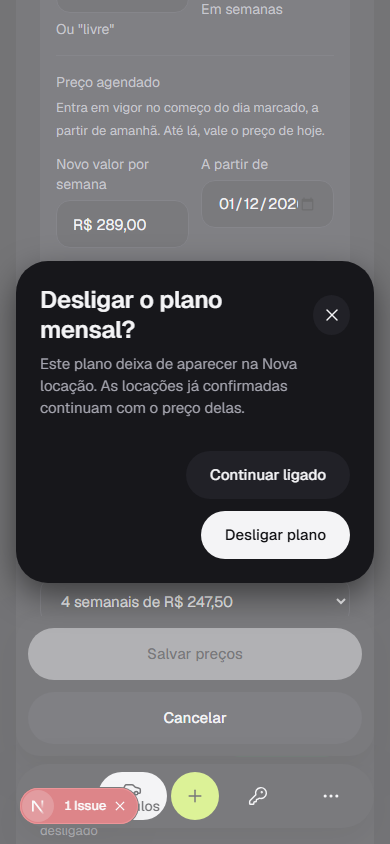
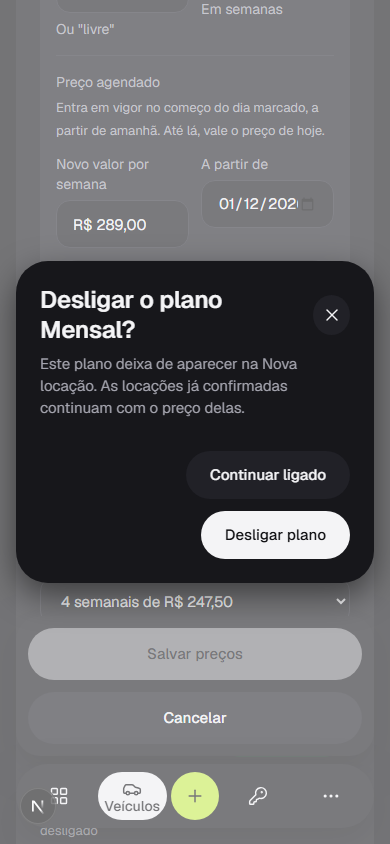
feat(veiculos): revenda estimada e textos aprovados de ligar e desligar na tela de preços [VEI-12] [VEI-13] [T-496]
Campo "Revenda estimada em 24 meses" no bloco Custo e venda; confirmações de
ligar e desligar plano e locação com compra com os textos da VEI-12; capturas
refeitas sem o selo de erro do Next.

Changed region(s): [[0.0308, 0.9242, 0.3692, 0.9858], [0.0923, 0.3697, 0.3385, 0.4005]]

diff --git a/frontend/src/components/precos-veiculo/PrecosDoVeiculo.tsx b/frontend/src/components/precos-veiculo/PrecosDoVeiculo.tsx
@@ -10,8 +10,8 @@ import { useAtrasado, useCelular } from "@/lib/atrasado";
 import { mensagemDoErro } from "@/lib/erros";
 import { dinheiro, placa as placaComHifen } from "@/lib/formatos";
 import {
-  TEXTO_DESLIGAR,
-  TEXTO_DESLIGAR_O_ULTIMO,
+
+  textosDaConfirmacao,
   centavosDoCampo,
   chaveDoPlano,
   compraParaRascunho,
@@ -52,7 +52,8 @@ function Quadro({ rotulo, children, apoio }: { rotulo: string; children: ReactNo
 
 const NUMERO_GRANDE = "text-[22px] font-semibold leading-7 tracking-[-0.01em]";
 
-type Confirmacao = { tipo: "plano" | "compra"; chave: string; nome: string; ultimo: boolean };
+type Confirmacao = { tipo: "plano" | "compra"; chave: string; nome: string; ligar: boolean; ultimo: boolean };
+const textos = (c: Confirmacao) => textosDaConfirmacao({ alvo: c.tipo, nome: c.nome, ligar: c.ligar, ultimo: c.ultimo });
 type Juros = { mensagem: string; aoConfirmar: () => void };
 
 function Tela({ id, dados }: { id: number; dados: Precos }) {
@@ -183,10 +184,9 @@ function Tela({ id, dados }: { id: number; dados: Precos }) {
     await gravarLiga("compra", m, (resposta) => setRascunho((r) => ({ ...r, compra: compraParaRascunho(resposta.plano_compra) })), () => void mudarLigadoDaCompra(ligado, true));
   }
 
-  function pedirParaLigar(chave: string, ligado: boolean) {
-    if (ligado) return void mudarLigadoDoPlano(chave, true);
+  function pedirParaLigar(chave: string, ligar: boolean) {
     const p = rascunho.planos.find((x) => x.chave === chave);
-    setConfirmando({ tipo: "plano", chave, nome: p?.rotulo.toLowerCase() ?? "", ultimo: ehOUltimoLigado(dados, chave) });
+    setConfirmando({ tipo: "plano", chave, nome: p?.rotulo ?? "", ligar, ultimo: !ligar && ehOUltimoLigado(dados, chave) });
   }
 
   async function mudarAgendado(chave: string, agendado: { valor: string; data: string } | null) {
@@ -311,7 +311,7 @@ function Tela({ id, dados }: { id: number; dados: Precos }) {
           ) : undefined
         }
       >
-        <div className="mt-4 grid gap-3 md:grid-cols-4">
+        <div className="mt-4 grid gap-3 [grid-template-columns:repeat(auto-fit,minmax(220px,1fr))]">
           {exibido.pago_na_moto && (
             <Quadro
               rotulo="Pago na moto"
@@ -351,6 +351,27 @@ function Tela({ id, dados }: { id: number; dados: Precos }) {
             <span className={`text-[13px] ${venda ? "text-critical-ink" : "text-ink-muted"}`}>{venda ?? (exibido.fipe_centavos != null ? `FIPE ${dinheiro(exibido.fipe_centavos)}` : "")}</span>
           </label>
           {exibido.custos && (
+            <label className={`flex min-w-0 flex-col gap-[2px] rounded-md bg-surface-sunken px-4 py-[14px] ${erros["custos.revenda_estimada_centavos"] ? "wl-field--error" : ""}`}>
+              <span className="text-[13px] text-ink-muted">Revenda estimada em 24 meses</span>
+              <input
+                className="wl-input w-full bg-surface text-[18px] font-semibold"
+                inputMode="decimal"
+                placeholder="R$ 0,00"
+                value={rascunho.revenda}
+                disabled={somenteLeitura}
+                aria-invalid={erros["custos.revenda_estimada_centavos"] ? true : undefined}
+                onChange={(e) => {
+                  setRascunho((r) => ({ ...r, revenda: e.target.value }));
+                  setAviso(null);
+                  setErrosSalvar((x) => Object.fromEntries(Object.entries(x).filter(([k]) => k !== "custos.revenda_estimada_centavos")));
+                }}
+              />
+              <span className={`text-[13px] ${erros["custos.revenda_estimada_centavos"] ? "text-critical-ink" : "text-ink-muted"}`}>
+                {erros["custos.revenda_estimada_centavos"] ?? "Quanto você espera vender a moto daqui a 24 meses. Vazio: sem desvalorização no custo."}
+              </span>
+            </label>
+          )}
+          {exibido.custos && (
             <Quadro rotulo="Custos por mês" apoio="manutenção, seguro, IPVA, rastreador">
               <b className={NUMERO_GRANDE}>{dinheiro(exibido.custos.custo_mes_centavos)}</b>
             </Quadro>
@@ -384,7 +405,7 @@ function Tela({ id, dados }: { id: number; dados: Precos }) {
         somenteLeitura={somenteLeitura}
         ocupado={ocupado === "compra"}
         aoEditar={editarCompra}
-        aoLigar={(ligado) => (ligado ? void mudarLigadoDaCompra(true) : setConfirmando({ tipo: "compra", chave: "compra", nome: "locação com compra", ultimo: ehOUltimoLigado(dados, "compra") }))}
+        aoLigar={(ligar) => setConfirmando({ tipo: "compra", chave: "compra", nome: "", ligar, ultimo: !ligar && ehOUltimoLigado(dados, "compra") })}
       />
 
       <Panel titulo="Regras desta moto">
@@ -419,12 +440,12 @@ function Tela({ id, dados }: { id: number; dados: Precos }) {
         aberto={confirmando !== null}
         aoFechar={() => setConfirmando(null)}
         tamanho="pequeno"
-        titulo={confirmando?.ultimo ? "Desligar o último plano?" : confirmando?.tipo === "compra" ? "Desligar a locação com compra?" : `Desligar o plano ${confirmando?.nome ?? ""}?`}
-        descricao={confirmando?.ultimo ? TEXTO_DESLIGAR_O_ULTIMO : TEXTO_DESLIGAR}
+        titulo={confirmando ? textos(confirmando).titulo : ""}
+        descricao={confirmando ? textos(confirmando).texto : undefined}
         acoes={
           <>
             <Button variante="quieto" onClick={() => setConfirmando(null)}>
-              Continuar ligado
+              {confirmando ? textos(confirmando).cancelar : ""}
             </Button>
             <Button
               variante="solido"
@@ -432,11 +453,11 @@ function Tela({ id, dados }: { id: number; dados: Precos }) {
                 const c = confirmando;
                 setConfirmando(null);
                 if (!c) return;
-                if (c.tipo === "compra") void mudarLigadoDaCompra(false);
-                else void mudarLigadoDoPlano(c.chave, false);
+                if (c.tipo === "compra") void mudarLigadoDaCompra(c.ligar);
+                else void mudarLigadoDoPlano(c.chave, c.ligar);
               }}
             >
-              Desligar plano
+              {confirmando ? textos(confirmando).confirmar : ""}
             </Button>
           </>
         }

diff --git a/frontend/src/lib/precos-veiculo.ts b/frontend/src/lib/precos-veiculo.ts
@@ -176,7 +176,7 @@ export type CompraRascunho = {
 
 export type RegrasRascunho = { kmExcedente: string; diaAtraso: string; descontoPct: string; prazoCaucao: string; multaMinima: string };
 
-export type Rascunho = { valorVenda: string; planos: PlanoRascunho[]; regras: RegrasRascunho; compra: CompraRascunho };
+export type Rascunho = { valorVenda: string; revenda: string; planos: PlanoRascunho[]; regras: RegrasRascunho; compra: CompraRascunho };
 
 const PERIODO_DO_TIPO: Record<TipoDePlano, PeriodoDoPlano> = { diaria: "dia", semanal: "semana", mensal: "mes", entregador: "semana", outro: "dia" };
 
@@ -219,6 +219,7 @@ export function compraParaRascunho(c: PrecosDoVeiculo["plano_compra"]): CompraRa
 export function rascunhoDoDocumento(d: PrecosDoVeiculo): Rascunho {
   return {
     valorVenda: textoDoDinheiro(d.valor_venda_centavos),
+    revenda: textoDoDinheiro(d.custos?.revenda_estimada_centavos),
     planos: d.planos.map(planoParaRascunho),
     regras: {
       kmExcedente: `${dinheiro(d.regras.km_excedente_centavos)} por km`,
@@ -340,6 +341,10 @@ export function corpoDaDiferenca(r: Rascunho, base: Rascunho, opcoes: { confirma
     corpo.valor_venda_centavos = dinheiroOu(a, "valor_venda_centavos", r.valorVenda, null);
     mudou = true;
   }
+  if (r.revenda !== base.revenda) {
+    corpo.custos = { revenda_estimada_centavos: dinheiroOu(a, "custos.revenda_estimada_centavos", r.revenda, null) };
+    mudou = true;
+  }
   const planos: PlanoEntrada[] = [];
   for (const p of r.planos) {
     const antes = base.planos.find((b) => b.chave === p.chave);
@@ -403,7 +408,7 @@ export function custosParaRascunho(c: CustosDoVeiculo | undefined): CustosRascun
   };
 }
 
-/** A revenda estimada não tem campo na tela de referência: vai o valor que já estava. */
+/** O modal não edita a revenda estimada (ela fica em "Custo e venda"): vai o valor que já estava. */
 export function custosParaCorpo(r: CustosRascunho, atual: CustosDoVeiculo | undefined): { custos: CustosEntrada; erros: ErrosDeCampo } {
   const a: Acumulador = { erros: {} };
   const custos: CustosEntrada = {
@@ -428,3 +433,20 @@ export function ehOUltimoLigado(d: PrecosDoVeiculo, planoChave: string | "compra
 
 /** "56.26" da API em "56,3%": uma casa, só para a exibição. */
 export const textoDaMargem = (pct: string): string => `${Number(pct).toLocaleString("pt-BR", { minimumFractionDigits: 1, maximumFractionDigits: 1 })}%`;
+
+export type TextosDaConfirmacao = { titulo: string; texto: string; confirmar: string; cancelar: string };
+
+/** Confirmações de ligar e desligar (VEI-12, VEI-15, VEI-16), com os textos aprovados pelo Produto em 18 nov 2026. `nome` é o do plano ("Semanal"). */
+export function textosDaConfirmacao(c: { alvo: "plano" | "compra"; nome: string; ligar: boolean; ultimo: boolean }): TextosDaConfirmacao {
+  if (c.alvo === "plano") {
+    if (c.ligar) return { titulo: `Ligar o plano ${c.nome}?`, texto: "Este plano passa a aparecer na Nova locação, com o valor, a caução e a franquia definidos para esta moto.", confirmar: "Ligar plano", cancelar: "Continuar desligado" };
+    return { titulo: c.ultimo ? "Desligar o último plano?" : `Desligar o plano ${c.nome}?`, texto: c.ultimo ? TEXTO_DESLIGAR_O_ULTIMO : TEXTO_DESLIGAR, confirmar: "Desligar plano", cancelar: "Continuar ligado" };
+  }
+  if (c.ligar) return { titulo: "Ligar a locação com compra?", texto: "A locação com compra passa a aparecer na Nova locação, com o valor de venda, as parcelas e os juros definidos para esta moto.", confirmar: "Ligar locação com compra", cancelar: "Continuar desligada" };
+  return {
+    titulo: c.ultimo ? "Desligar o último plano?" : "Desligar a locação com compra?",
+    texto: c.ultimo ? TEXTO_DESLIGAR_O_ULTIMO : "A locação com compra deixa de aparecer na Nova locação. As locações já confirmadas continuam com o preço e as parcelas delas.",
+    confirmar: "Desligar locação com compra",
+    cancelar: "Continuar ligada",
+  };
+}

diff --git a/frontend/src/components/precos-veiculo/PrecosNaFicha.tsx b/frontend/src/components/precos-veiculo/PrecosNaFicha.tsx
@@ -8,8 +8,7 @@ import { ErroApi, veiculos, type PlanoCompraEntrada, type PlanoDoVeiculo, type P
 import { mensagemDoErro } from "@/lib/erros";
 import { dinheiro, placa } from "@/lib/formatos";
 import {
-  TEXTO_DESLIGAR,
-  TEXTO_DESLIGAR_O_ULTIMO,
+  textosDaConfirmacao,
   chaveDoPlano,
   ehOUltimoLigado,
   porPeriodo,
@@ -251,7 +250,7 @@ export function PrecosNaFicha({ id }: { id: number }) {
 
   const ligados = d.planos.filter((p) => p.ligado);
   const desligados = d.planos.filter((p) => !p.ligado);
-  const nomeDe = (q: "compra" | PlanoDoVeiculo) => (q === "compra" ? "a locação com compra" : `o plano ${q.rotulo.toLowerCase()}`);
+  const textos = (c: Confirmar) => textosDaConfirmacao({ alvo: c.quem === "compra" ? "compra" : "plano", nome: c.quem === "compra" ? "" : c.quem.rotulo, ligar: c.ligar, ultimo: c.ultimo });
   const custoMes = d.custos?.custo_mes_centavos;
 
   return (
@@ -298,12 +297,12 @@ export function PrecosNaFicha({ id }: { id: number }) {
         aberto={confirmar !== null}
         aoFechar={() => setConfirmar(null)}
         tamanho="pequeno"
-        titulo={confirmar ? (confirmar.ligar ? `Ligar ${nomeDe(confirmar.quem)}?` : confirmar.ultimo ? "Desligar o último plano?" : `Desligar ${nomeDe(confirmar.quem)}?`) : ""}
-        descricao={confirmar ? (confirmar.ligar ? "Este plano passa a aparecer na Nova locação, com o valor, a caução e a franquia definidos para esta moto." : confirmar.ultimo ? TEXTO_DESLIGAR_O_ULTIMO : TEXTO_DESLIGAR) : undefined}
+        titulo={confirmar ? textos(confirmar).titulo : ""}
+        descricao={confirmar ? textos(confirmar).texto : undefined}
         acoes={
           <>
             <Button variante="quieto" onClick={() => setConfirmar(null)}>
-              {confirmar?.ligar ? "Cancelar" : "Continuar ligado"}
+              {confirmar ? textos(confirmar).cancelar : ""}
             </Button>
             <Button
               variante="solido"
@@ -313,7 +312,7 @@ export function PrecosNaFicha({ id }: { id: number }) {
                 if (c) void executar(c);
               }}
             >
-              {confirmar?.ligar ? "Ligar plano" : "Desligar plano"}
+              {confirmar ? textos(confirmar).confirmar : ""}
             </Button>
           </>
         }

diff --git a/frontend/src/lib/precos-veiculo.test.ts b/frontend/src/lib/precos-veiculo.test.ts
@@ -16,6 +16,7 @@ import {
   textoDasFormas,
   textoDoAgendado,
   textoDoPagamento,
+  textosDaConfirmacao,
 } from "./precos-veiculo";
 
 describe("leitura do que se digita", () => {
@@ -148,5 +149,21 @@ describe("textos e o último plano", () => {
     expect(textoDoPagamento("mes_quatro_semanais", { parcelas: 4, parcela_centavos: 24750, ultima_parcela_centavos: 24750 })).toBe("4 semanais de R$ 247,50");
     expect(textoDoPagamento("mes_uma_parcela")).toBe("1 parcela no mês");
     expect(textoDoAgendado({ valor_centavos: 28900, a_partir_de: "2026-12-01" })).toBe("R$ 289,00 a partir de 01 dez");
+  });
+});
+
+describe("revenda estimada e textos de confirmação", () => {
+  it("vei_13_revenda_estimada_vai_em_custos_so_quando_muda", () => {
+    const base = rascunhoDoDocumento(PRECOS_POP);
+    expect(base.revenda).toBe("R$ 9.000,00");
+    expect(corpoDaDiferenca(base, base).mudou).toBe(false);
+    expect(corpoDaDiferenca({ ...base, revenda: "R$ 8.900,00" }, base).corpo.custos).toEqual({ revenda_estimada_centavos: 890000 });
+    expect(corpoDaDiferenca({ ...base, revenda: "" }, base).corpo.custos).toEqual({ revenda_estimada_centavos: null });
+  });
+  it("vei_12_textos_aprovados_de_ligar_e_desligar", () => {
+    expect(textosDaConfirmacao({ alvo: "plano", nome: "Semanal", ligar: true, ultimo: false })).toMatchObject({ titulo: "Ligar o plano Semanal?", confirmar: "Ligar plano", cancelar: "Continuar desligado" });
+    expect(textosDaConfirmacao({ alvo: "compra", nome: "", ligar: false, ultimo: false })).toMatchObject({ titulo: "Desligar a locação com compra?", confirmar: "Desligar locação com compra", cancelar: "Continuar ligada" });
+    expect(textosDaConfirmacao({ alvo: "compra", nome: "", ligar: true, ultimo: false }).confirmar).toBe("Ligar locação com compra");
+    expect(textosDaConfirmacao({ alvo: "plano", nome: "Mensal", ligar: false, ultimo: true }).titulo).toBe("Desligar o último plano?");
   });
 });

diff --git a/frontend/src/components/precos-veiculo/PrecosDoVeiculo.test.tsx b/frontend/src/components/precos-veiculo/PrecosDoVeiculo.test.tsx
@@ -55,6 +55,8 @@ describe("tela de preços do veículo", () => {
     expect(t).toContain("compra R$ 13.490,00 + despesas R$ 310,00");
     expect(t).toContain("FIPE R$ 13.900,00");
     expect(t).toContain("R$ 530,00");
+    expect(t).toContain("Revenda estimada em 24 meses");
+    expect(h).toContain('value="R$ 9.000,00"');
     expect(t).toContain("85%");
     expect(t).toContain("frota nos últimos 90 dias: 84%");
     expect(h).toContain("Editar custos mensais");
